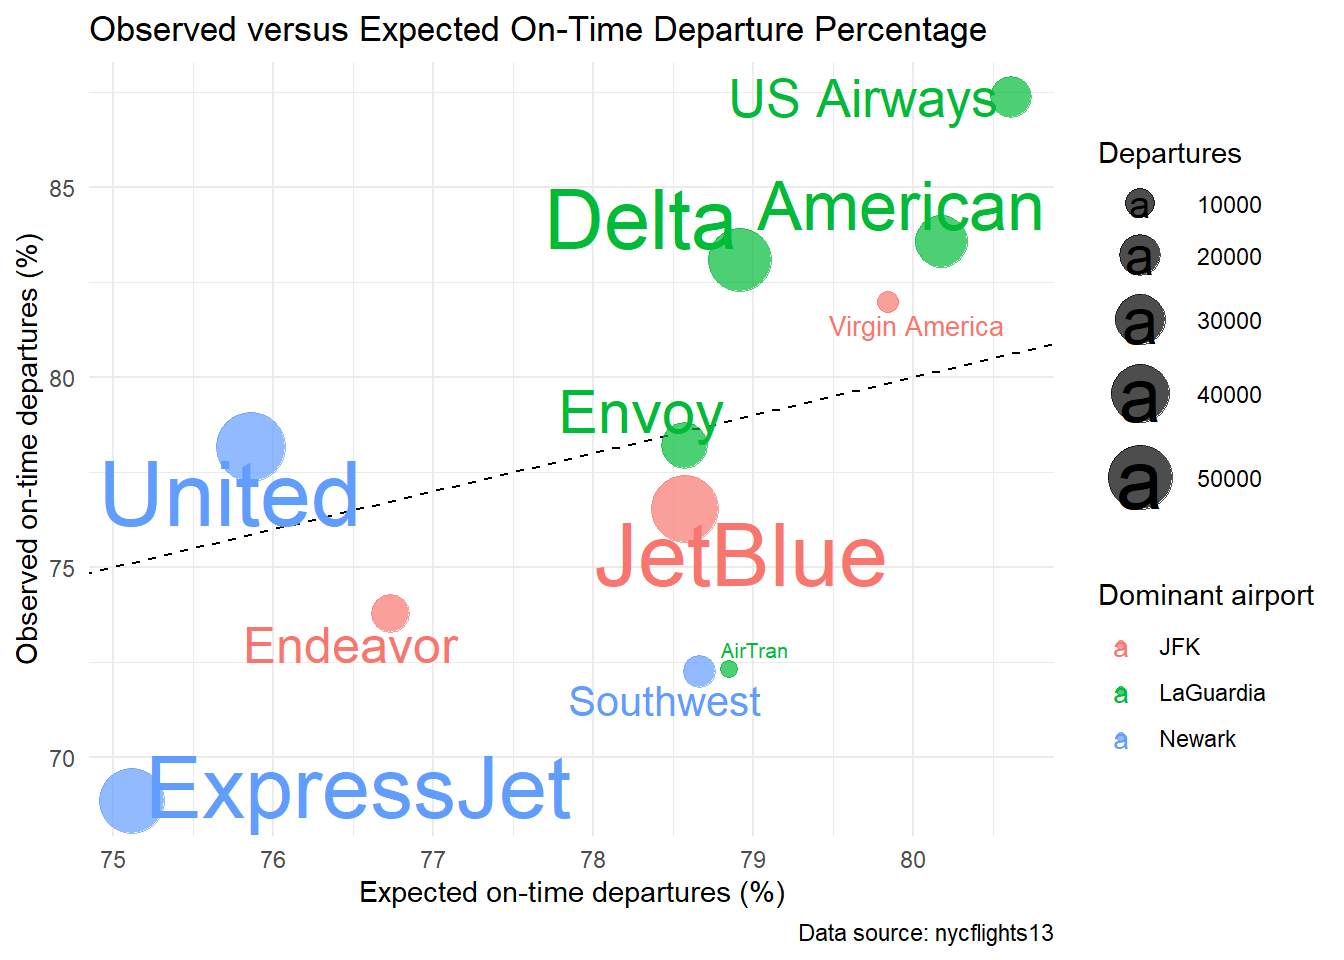
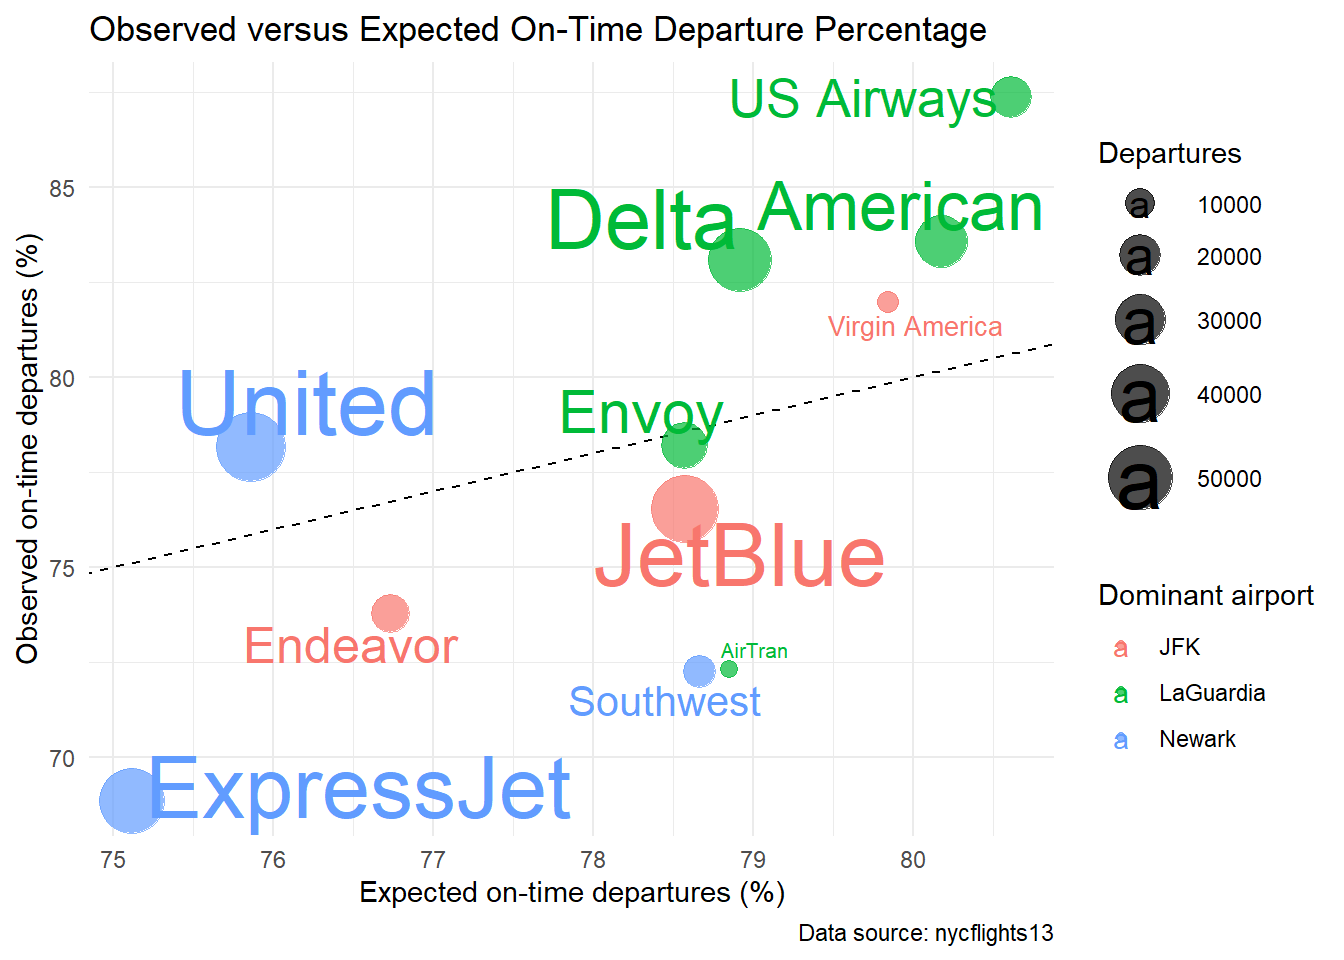
Final formatting of qmd

diff --git a/team-navy-nyc-delays-lab.html b/team-navy-nyc-delays-lab.html
@@ -101,6 +101,33 @@ pre > code.sourceCode > span > a:first-child::before { text-decoration: underlin
 </header>
 
 
+<section id="overview" class="level2">
+<h2 class="anchored" data-anchor-id="overview">1 Overview</h2>
+<p>This Quarto document implements the Week 06 lab tasks on visualizing on-time departures from New York City-area airports. Follow the code chunks below to reproduce the figures and answers from the lab brief.</p>
+</section>
+<section id="lab-rules" class="level2">
+<h2 class="anchored" data-anchor-id="lab-rules">2 Lab Rules</h2>
+<p>Permitted Packages in this lab:</p>
+<ul>
+<li>ggrepel</li>
+<li>nycflights13</li>
+<li>dplyr</li>
+<li>forcats</li>
+<li>ggplot2</li>
+<li>lubridate</li>
+<li>purrr</li>
+<li>readr</li>
+<li>stringr</li>
+<li>tibble</li>
+<li>tidyr</li>
+</ul>
+</section>
+<section id="tasks" class="level2">
+<h2 class="anchored" data-anchor-id="tasks">3 Tasks</h2>
+<p>Placeholders for lab tasks (3.1–3.9). Implement plots in subsequent code chunks following the lab instructions.</p>
+<!-- data is prepared in the setup chunk and available as `departures` -->
+<section id="data-preparation" class="level3">
+<h3 class="anchored" data-anchor-id="data-preparation">3.1 Data preparation</h3>
 <div class="cell">
 <div class="code-copy-outer-scaffold"><div class="sourceCode cell-code" id="cb1"><pre class="sourceCode r code-with-copy"><code class="sourceCode r"><span id="cb1-1"><a href="#cb1-1" aria-hidden="true" tabindex="-1"></a><span class="fu">library</span>(tidyverse)</span>
 <span id="cb1-2"><a href="#cb1-2" aria-hidden="true" tabindex="-1"></a><span class="fu">library</span>(nycflights13)</span>
@@ -136,20 +163,7 @@ pre > code.sourceCode > span > a:first-child::before { text-decoration: underlin
 <span id="cb1-32"><a href="#cb1-32" aria-hidden="true" tabindex="-1"></a><span class="co"># save prepared data for reproducibility (optional)</span></span>
 <span id="cb1-33"><a href="#cb1-33" aria-hidden="true" tabindex="-1"></a>readr<span class="sc">::</span><span class="fu">write_rds</span>(departures, <span class="at">file =</span> <span class="st">"data/departures.rds"</span>)</span></code></pre></div><button title="Copy to Clipboard" class="code-copy-button"><i class="bi"></i></button></div>
 </div>
-<section id="overview" class="level2">
-<h2 class="anchored" data-anchor-id="overview">1 Overview</h2>
-<p>This Quarto document implements the Week 06 lab tasks on visualizing on-time departures from New York City-area airports. Follow the code chunks below to reproduce the figures and answers from the lab brief.</p>
-</section>
-<section id="data-preparation" class="level2">
-<h2 class="anchored" data-anchor-id="data-preparation">2 Data preparation</h2>
-<p>The data-preparation code is in <code>scripts/prepare_departures.R</code> and saves a prepared <code>data/departures.rds</code> file.</p>
-</section>
-<section id="tasks" class="level2">
-<h2 class="anchored" data-anchor-id="tasks">3 Tasks</h2>
-<p>Placeholders for lab tasks (3.1–3.9). Implement plots in subsequent code chunks following the lab instructions.</p>
-<!-- data is prepared in the setup chunk and available as `departures` -->
-<section id="data-preparation-checks" class="level3">
-<h3 class="anchored" data-anchor-id="data-preparation-checks">3.1 Data preparation checks</h3>
+<p><strong>Verifier Task: A join can silently add rows if the lookup table contains duplicate codes, or it can leave unmatched values as NA. Confirm that departures has the same number of rows before and after the join, and that the final tibble contains no missing values.</strong></p>
 <div class="cell">
 <div class="code-copy-outer-scaffold"><div class="sourceCode cell-code" id="cb2"><pre class="sourceCode r code-with-copy"><code class="sourceCode r"><span id="cb2-1"><a href="#cb2-1" aria-hidden="true" tabindex="-1"></a><span class="co"># Verifier: ensure columns exist and no missing values</span></span>
 <span id="cb2-2"><a href="#cb2-2" aria-hidden="true" tabindex="-1"></a><span class="fu">stopifnot</span>(<span class="fu">all</span>(</span>
@@ -391,6 +405,8 @@ pre > code.sourceCode > span > a:first-child::before { text-decoration: underlin
 </div>
 <p><strong>3.6.c You mapped airport to color and linetype—two visual properties for one variable. Briefly justify this apparent redundancy: What does line type protect against that color alone does not?</strong></p>
 <p>Mapping airport to both color and linetype makes the lines easier to distinguish if the plot is printed in grayscale or viewed by someone who is color blind or deficient.</p>
+<p><strong>Verifier Task: The plot may indicate that the on-time departure percentage declines over the course of the day. Find evidence from a credible source that this is a known phenomenon in the airline industry, quote a short relevant passage, and cite the source in your answer. Your quotation must support the claim directly, not merely mention flight delays in general.</strong></p>
+<p>TO BE FILLED</p>
 </section>
 <section id="schedule-mix-by-airline" class="level3">
 <h3 class="anchored" data-anchor-id="schedule-mix-by-airline">3.7 Schedule Mix by Airline</h3>